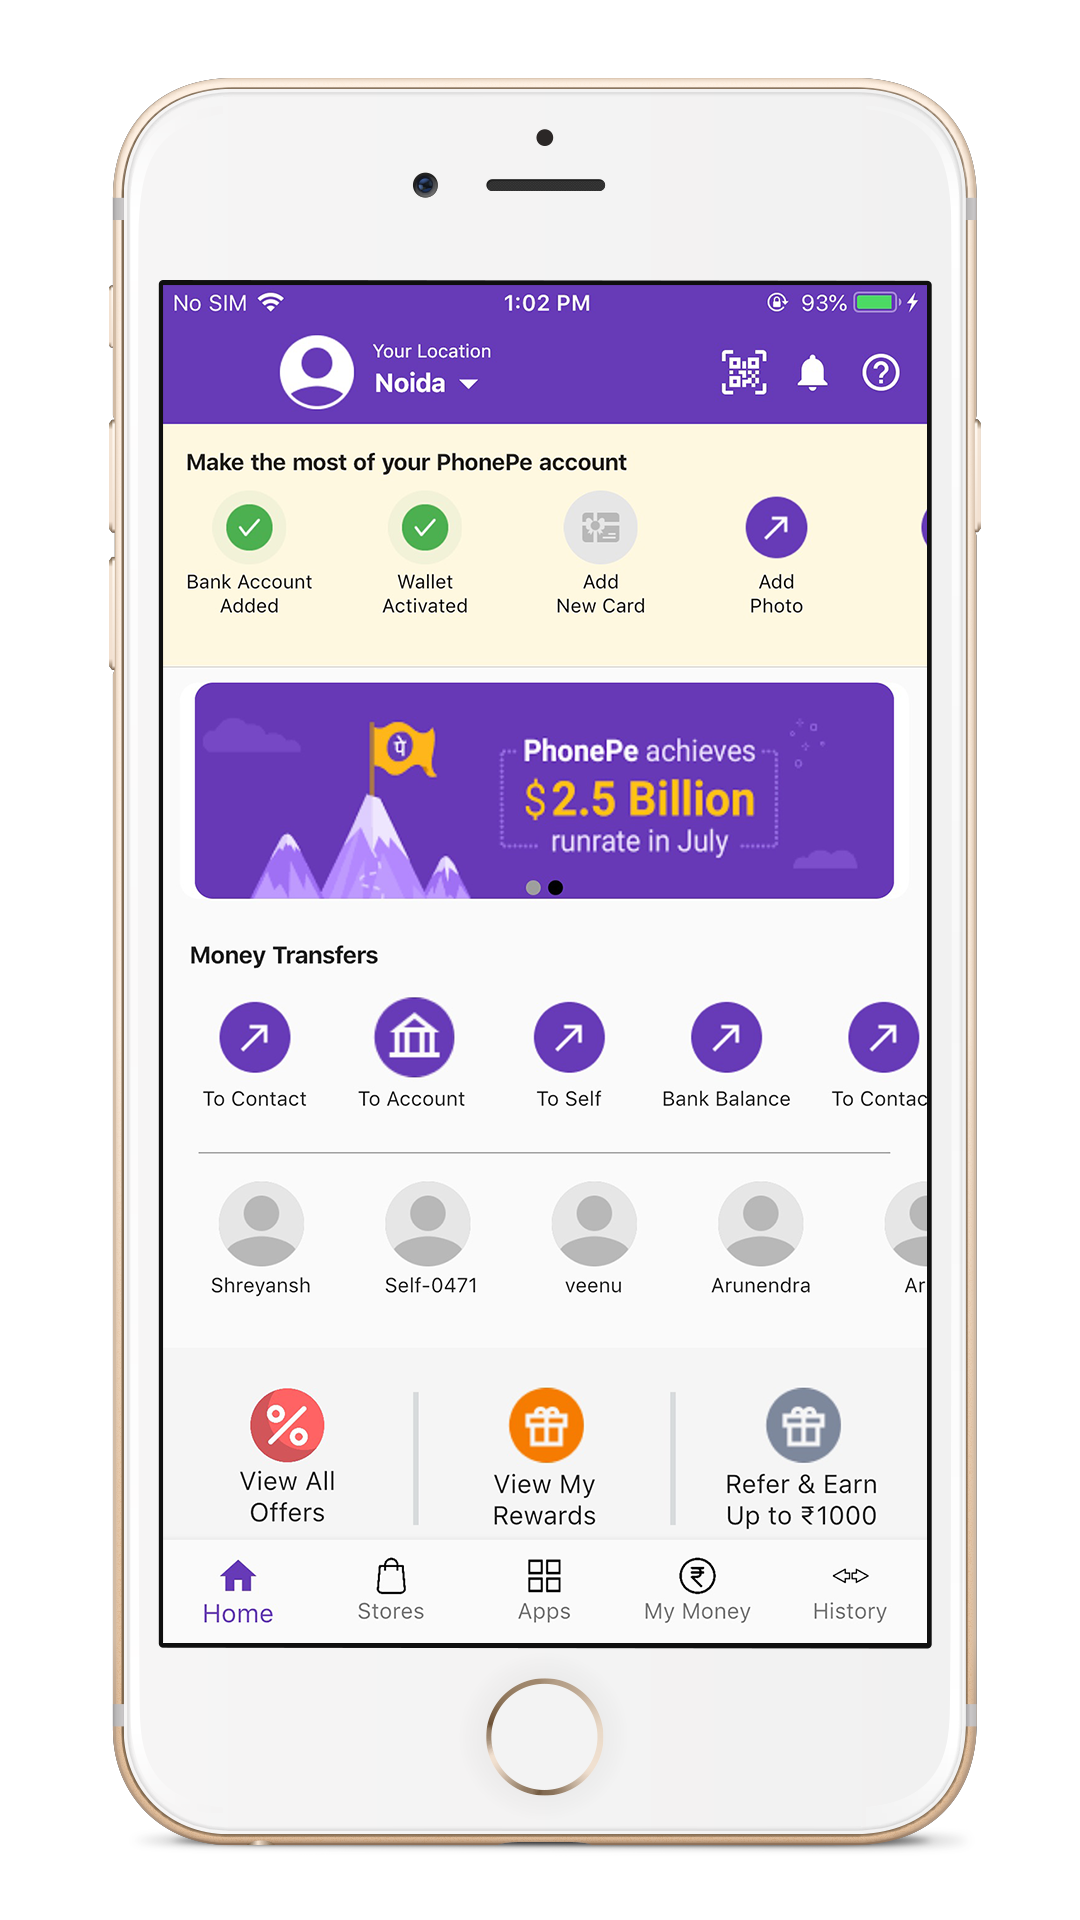
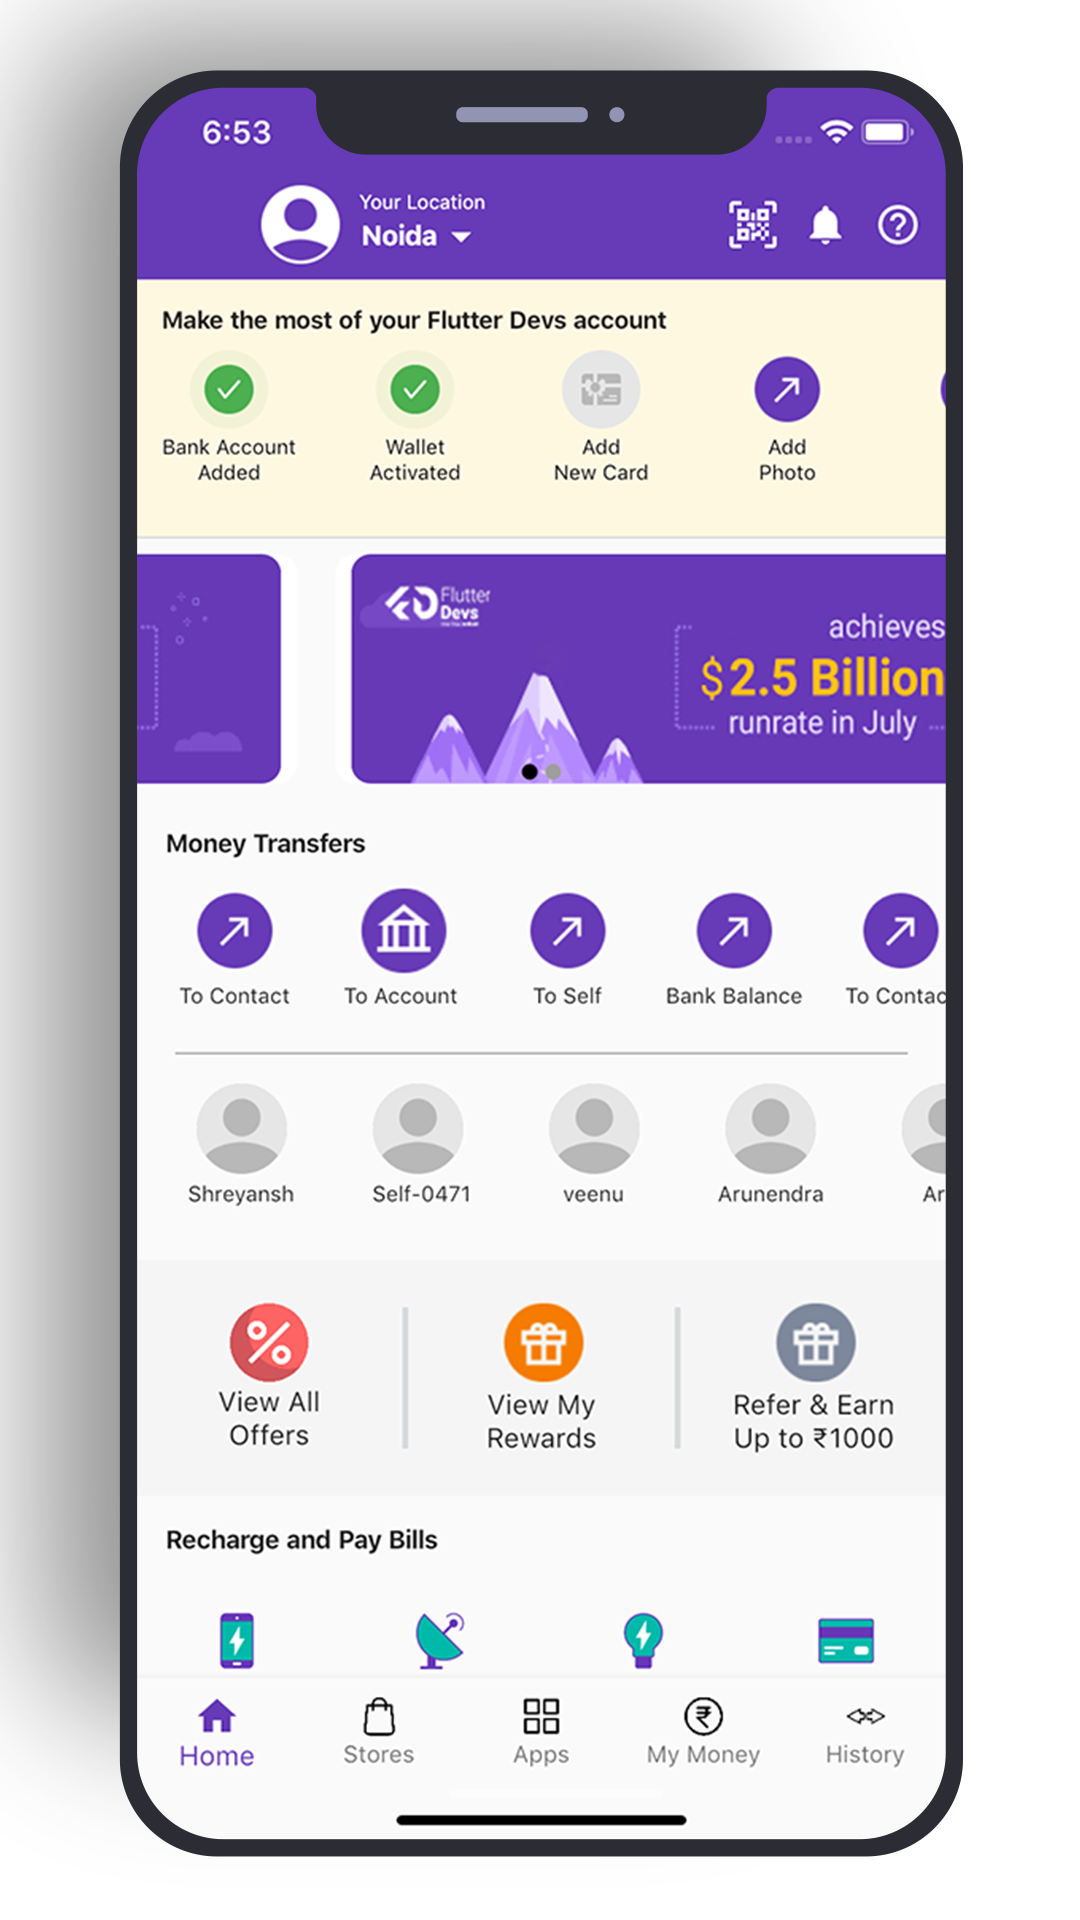
Updated packages

diff --git a/lib/ui/phonepe.dart b/lib/ui/phonepe.dart
@@ -3,12 +3,12 @@ import 'package:carousel_slider/carousel_slider.dart';
 import 'package:flutter_phonepe_ui/model/ImageSliderModel.dart';
 import 'package:flutter_phonepe_ui/model/Listpaymodel.dart';
 
-class PhonePe extends StatefulWidget {
+class FlutterDevs extends StatefulWidget {
   @override
-  _PhonePeState createState() => _PhonePeState();
+  _FlutterDevsState createState() => _FlutterDevsState();
 }
 
-class _PhonePeState extends State<PhonePe> {
+class _FlutterDevsState extends State<FlutterDevs> {
   int _currentIndex = 0;
 
   @override
@@ -156,7 +156,7 @@ class _PhonePeState extends State<PhonePe> {
             child: Padding(
               padding: const EdgeInsets.only(left: 13, top: 13, bottom: 8),
               child: Text(
-                'Make the most of your PhonePe account',
+                'Make the most of your Flutter Devs account',
                 style: TextStyle(fontSize: 12.5, fontWeight: FontWeight.bold),
               ),
             ),
@@ -464,8 +464,9 @@ class _PhonePeState extends State<PhonePe> {
 
   List<ImageSliderModel> _getImageSliderList() {
     List<ImageSliderModel> list = new List();
-    list.add(new ImageSliderModel("assets/banner7.png"));
-    list.add(new ImageSliderModel("assets/banner7.png"));
+    list.add(new ImageSliderModel("assets/ghghgh.jpg"));
+    list.add(new ImageSliderModel("assets/ghghgh.jpg"));
+
 
     return list;
   }

diff --git a/lib/main.dart b/lib/main.dart
@@ -19,7 +19,7 @@ class MyApp extends StatelessWidget {
       ),
       routes: <String, WidgetBuilder>{
         SPLASH_SCREEN: (BuildContext context) => SplashScreen(),
-        PHONE_PE: (BuildContext context) => PhonePe(),
+        PHONE_PE: (BuildContext context) => FlutterDevs(),
 
 
       },
